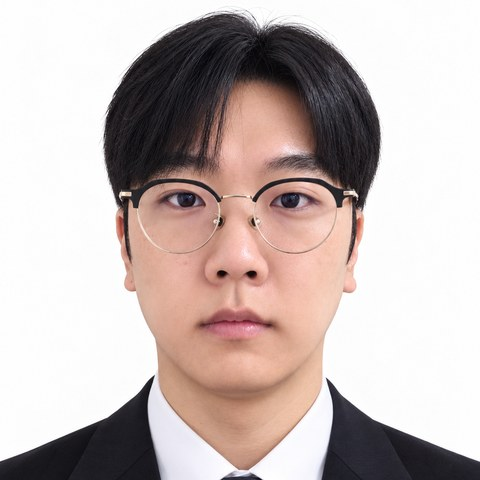
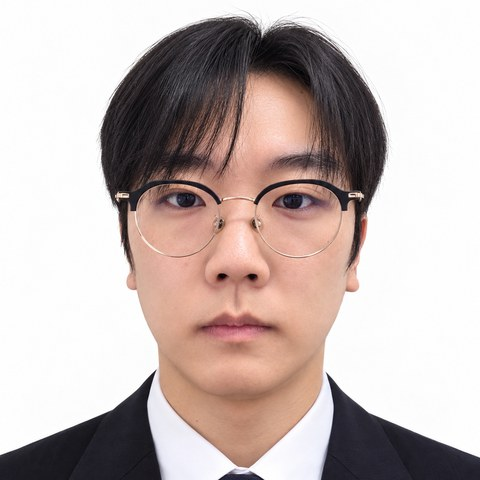
Add files via upload

diff --git a/index.html b/index.html
@@ -209,7 +209,7 @@
       <p class="lead">My research spans deep learning, hybrid physics–AI modeling, and hydrogeology, with a focus on water resources and water-related disasters under a changing climate.</p>
       <div class="links" id="heroLinks"></div>
     </div>
-    <div class="avatar-col reveal"><div class="avatar-wrap"><img class="avatar" src="profile.jpg?v=2" alt="Portrait of Jiho Jeong"></div></div>
+    <div class="avatar-col reveal"><div class="avatar-wrap"><img class="avatar" src="profile.jpg?v=3" alt="Portrait of Jiho Jeong"></div></div>
   </div>
 </header>
 
